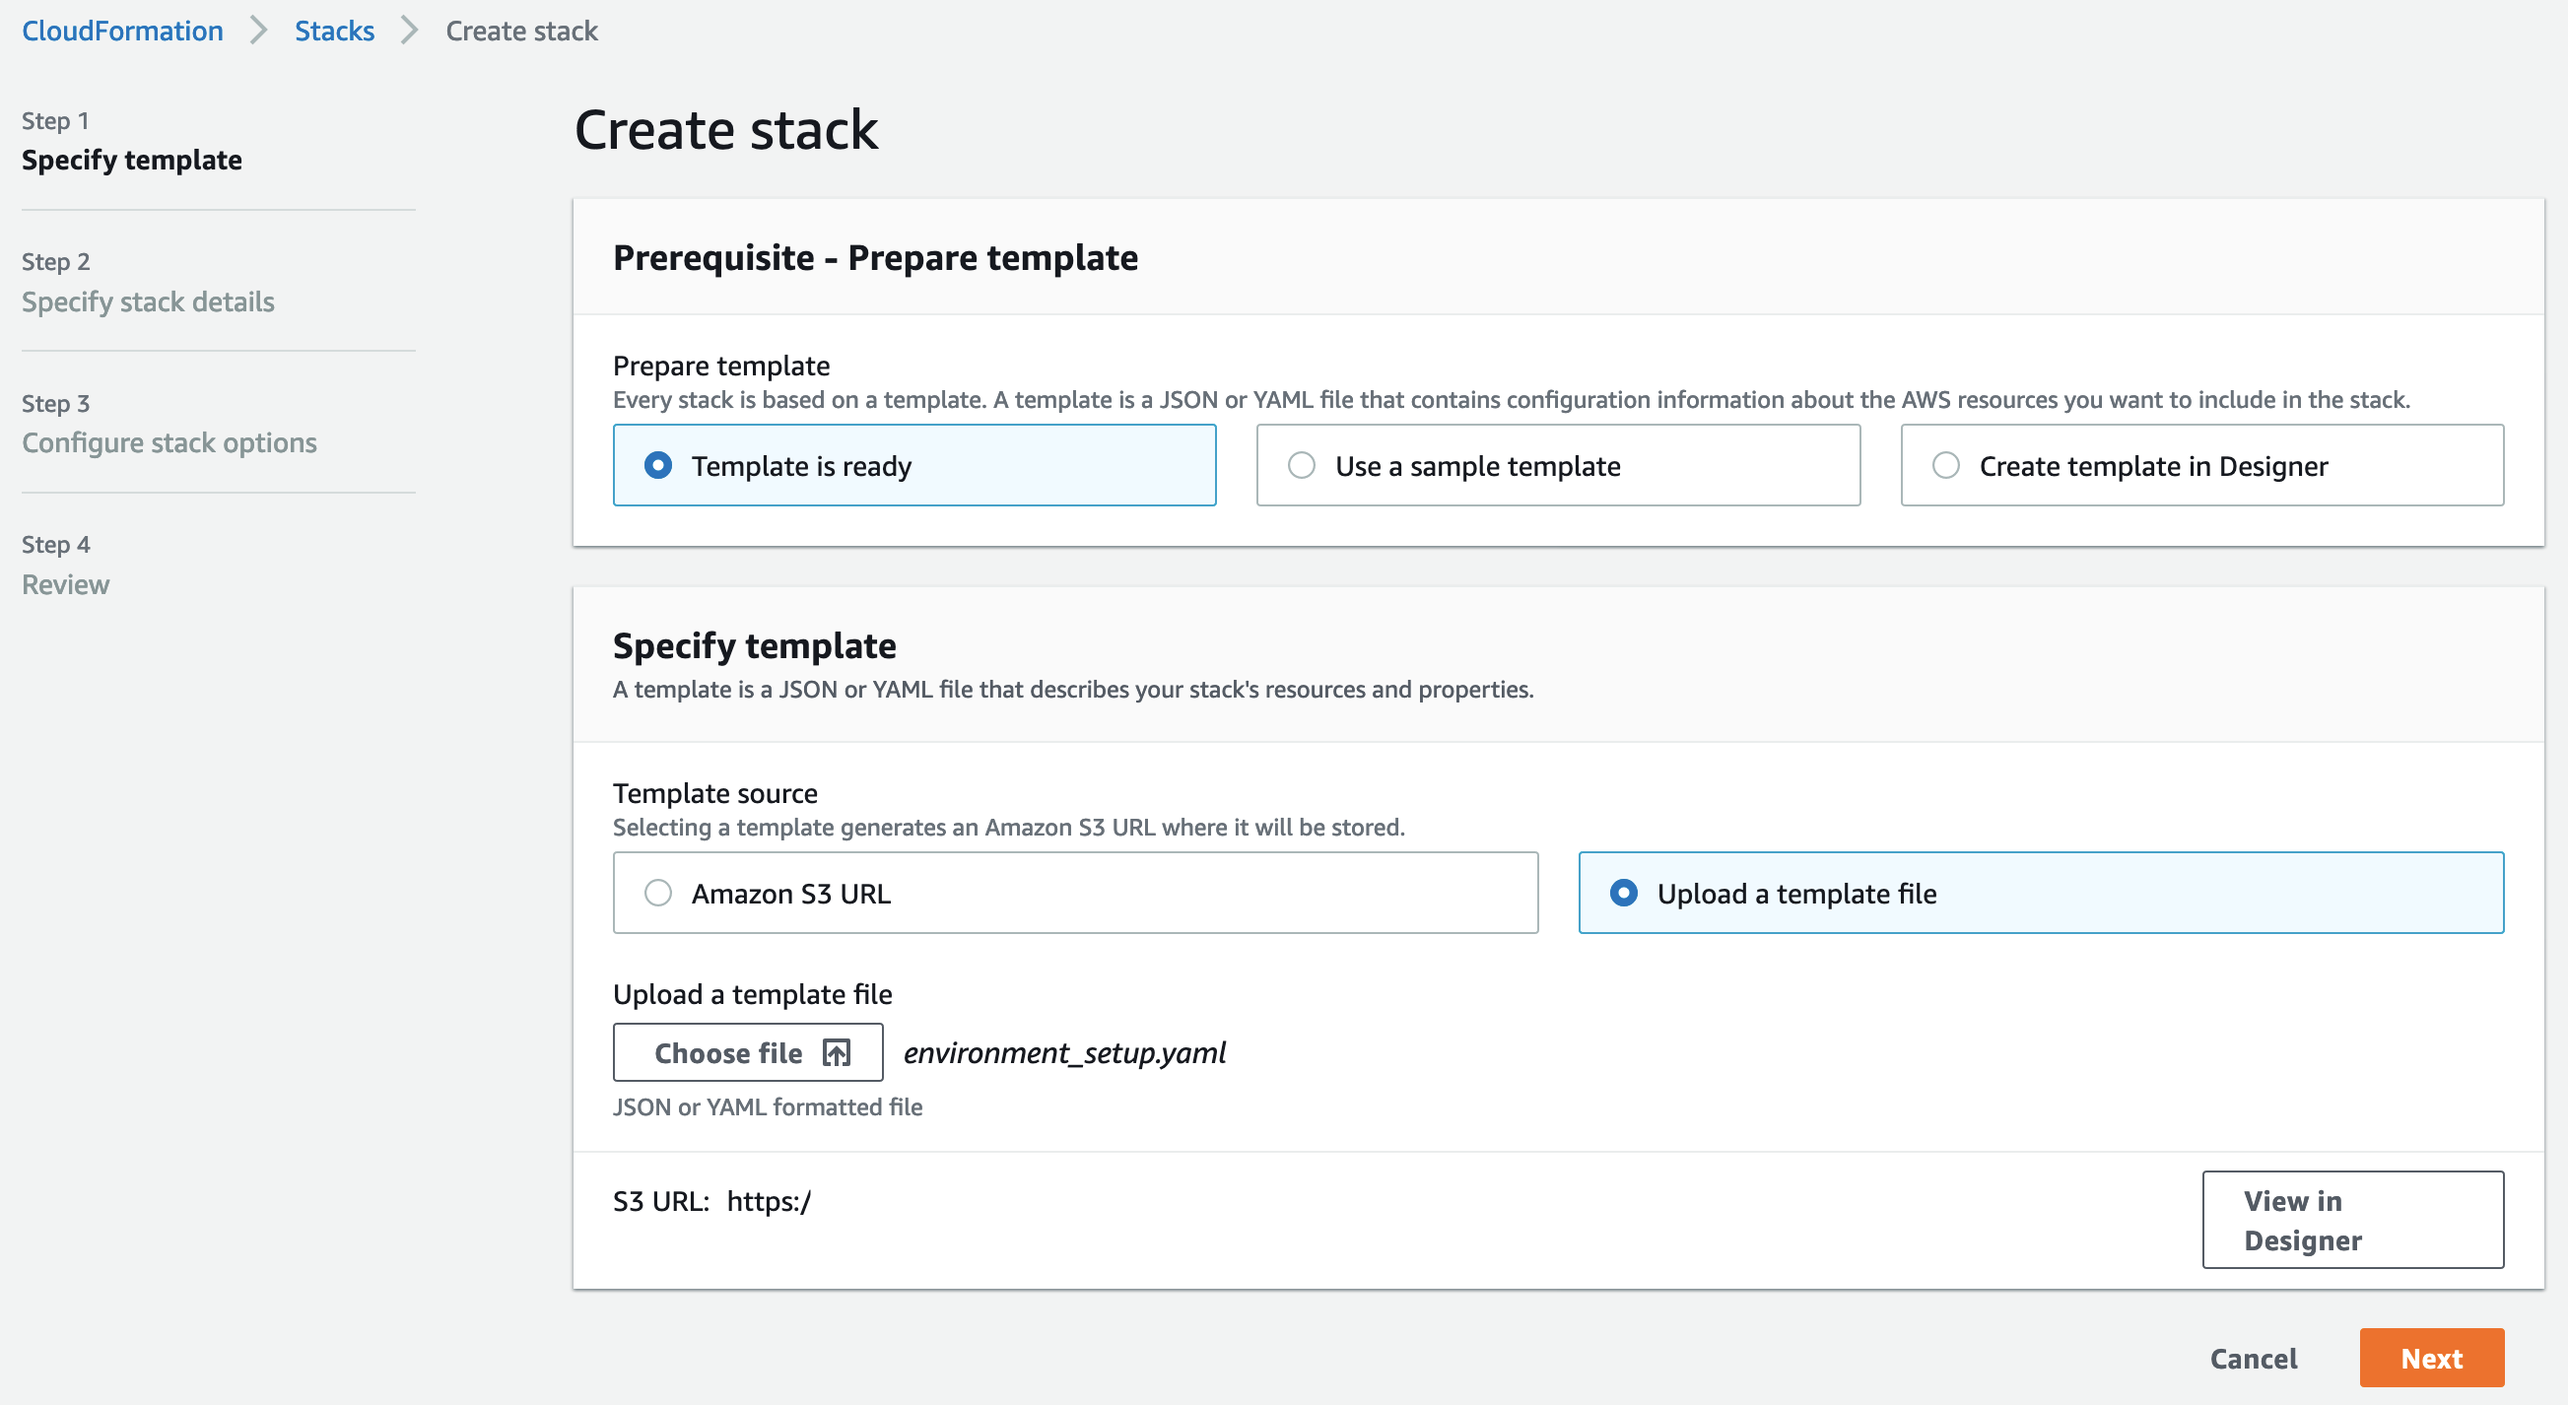
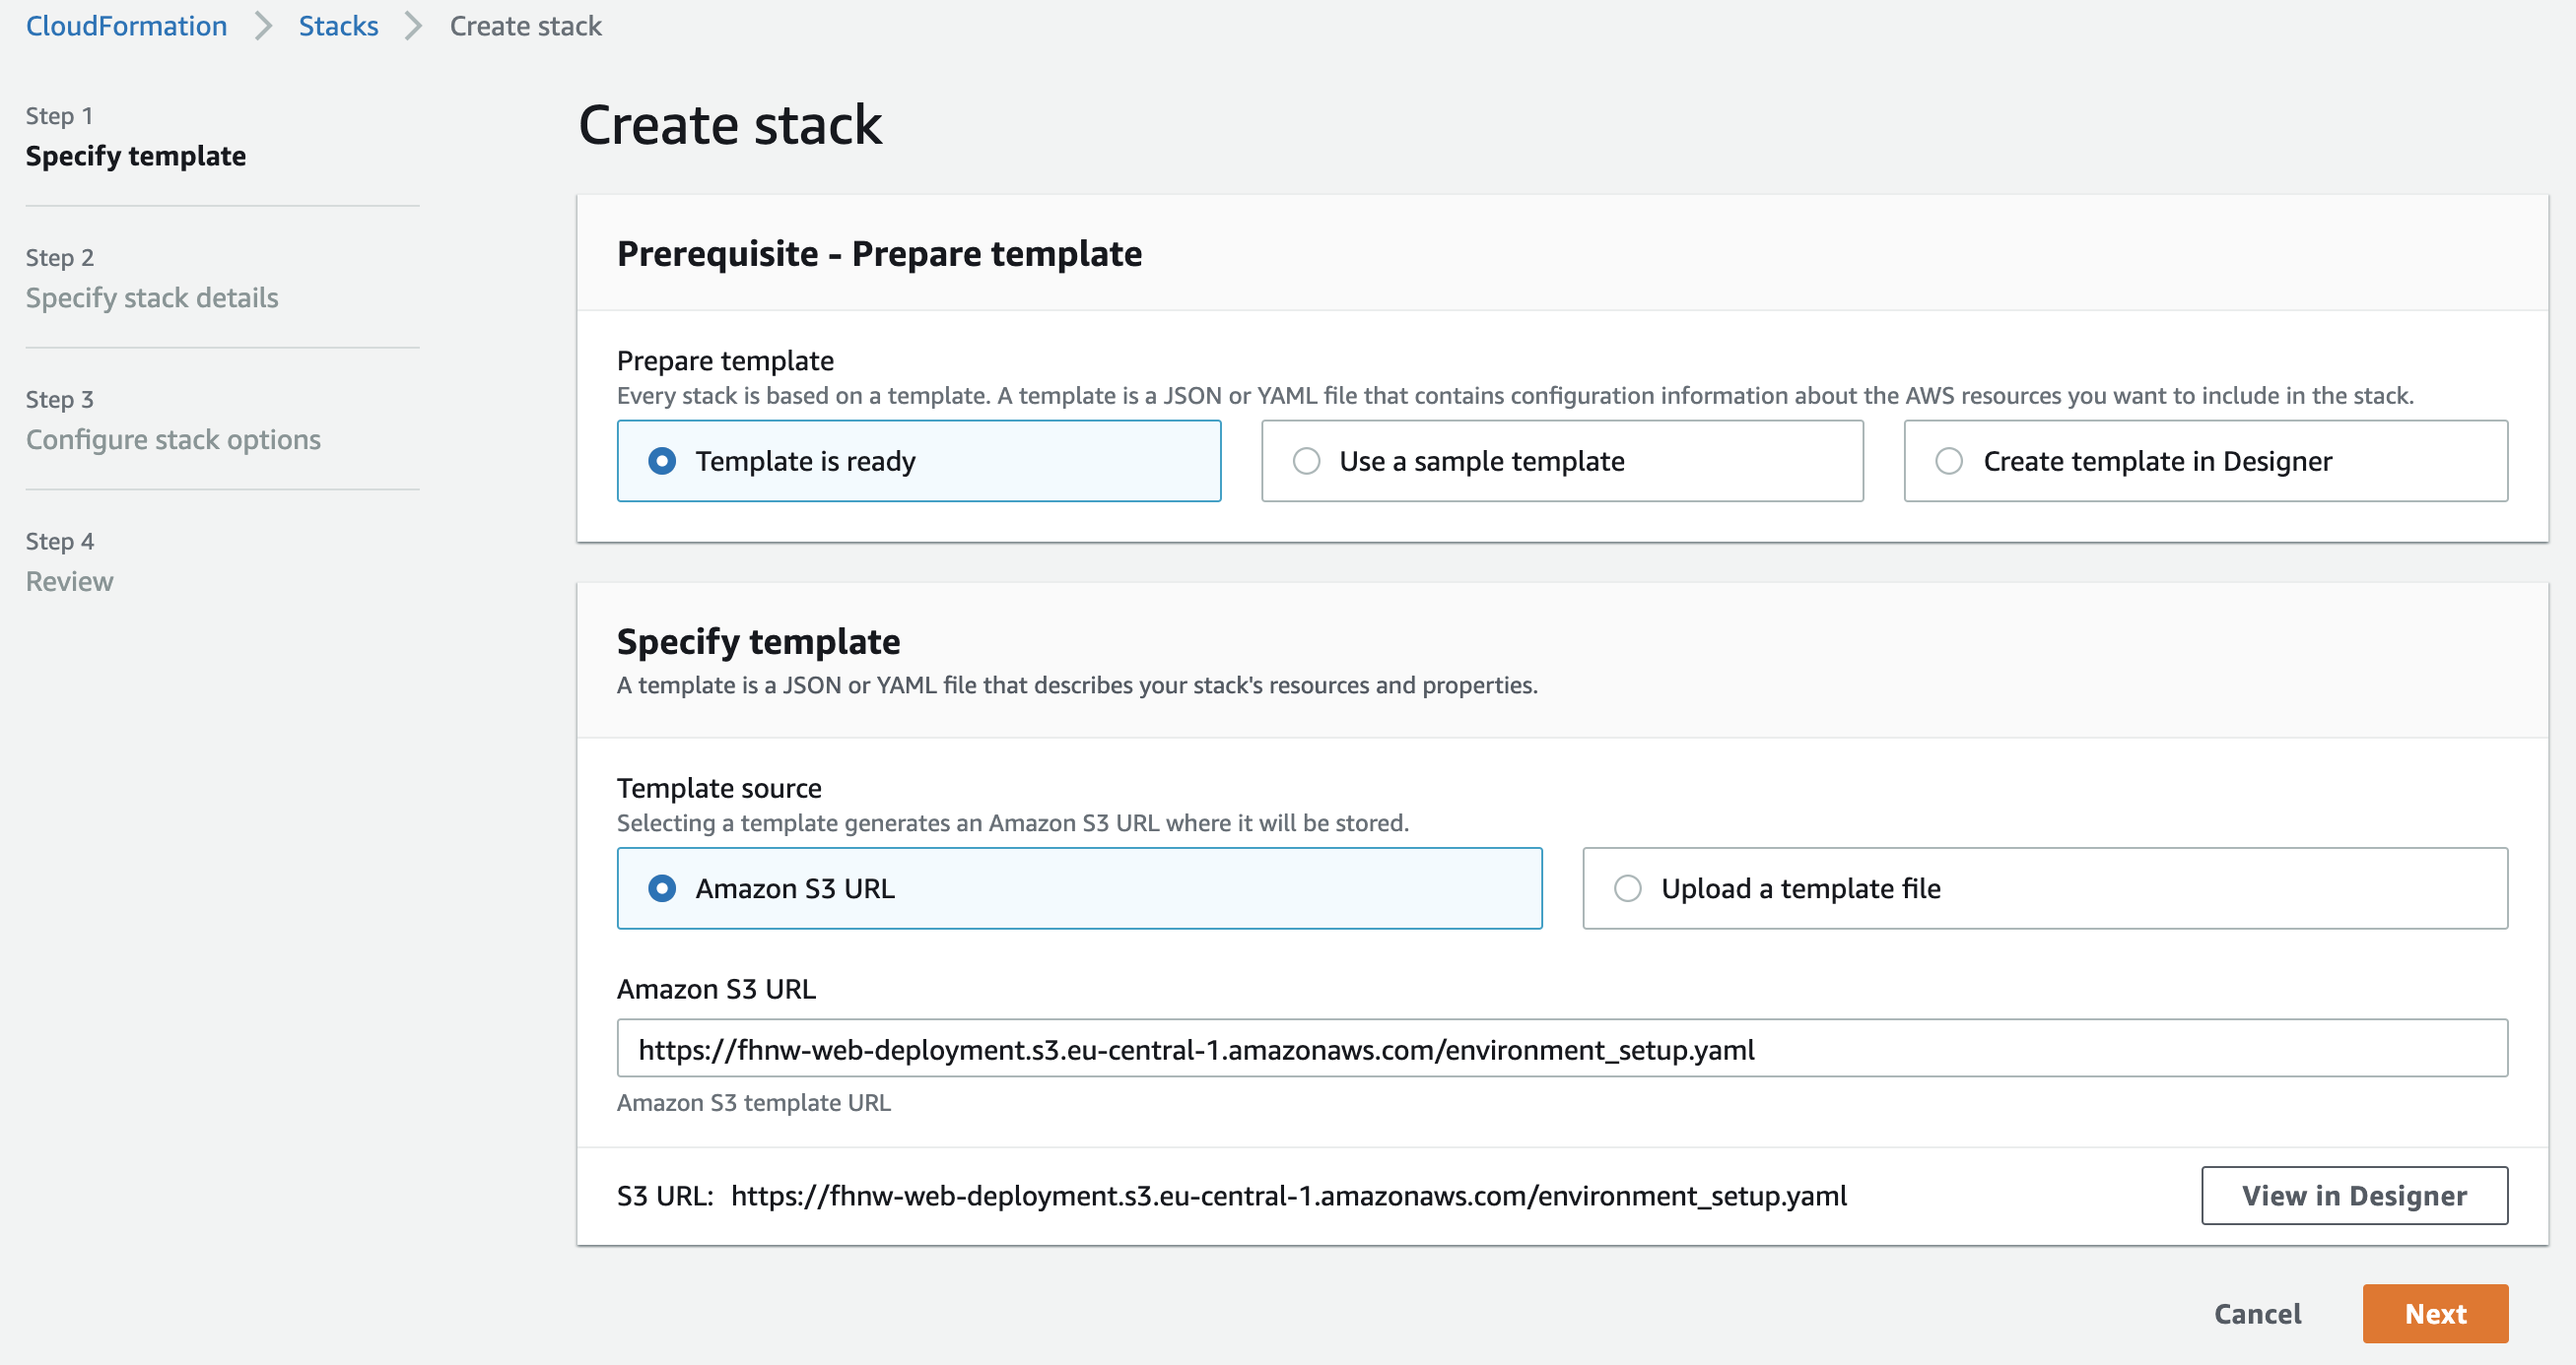
documentation udpates and corrections

diff --git a/Readme.md b/Readme.md
@@ -12,27 +12,28 @@ You will need access to an AWS Account in order to conduct this lab. Either you'
 
 ## Prepare the environment ##
 
-We will be using a couple of AWS services for this lab. Please use [the AWS CloudFormation template](https://github.com/cvolkmer/fhnw-web-deployment/blob/master/infrastructure/environment_setup.yaml) to automatically setup the infrastructure needed. The template will setup most of the infrastructure components and you can concentrate on the container part. For this lab, we will be using the Frankfurt (eu-central-1) region. Please make sure you clone this repository to a local directory.
+We will be using a couple of AWS services for this lab. The base infrastructure setup is available as a CloudFormation template. If you are interested in what is deployed - the template is stored in this repository under "Infrastructure".
 
 Services deployed by the AWS CloudFormation template:
 - Networking Stack (VPC)
 - AWS Cloud9 IDE
 - Amazon ECS Cluster (Fargate)
 - Amazon ECR container repository
-- Elastic LoadBalancer
+- Elastic Load Balancer
 
 ### Deploy the template ###
-- In the AWS Console, select "Services" and type "CloudFormation"
-- On the right side in the AWS CloudFormation window, click on "Create stack" and select "With new resources (standard)"
-- Under "Specify template" select "Upload a template file" and click "Choose file"
-- Select the file "environment_setup.yaml" in the "infrastructure" directory of this repository and click "Next"
 
-![New Stack](images/cf_new_stack.png)
+Make sure you are logged into the AWS Console and click on "Launch Stack" below to automatically deploy the stack in the Frankfurt Region (eu-central-1):
 
-- Use "roomreservation" as "Stack name"
-- Leave the default values for the other parameters and click "Next"
-- On the "Configure Stack options" page scroll down and click "Next"
-- On the next page scroll down, select the checkbox under "Capabilities" and click "Create stack"
+[![](images/cloudformation_launch_stack.png)](https://console.aws.amazon.com/cloudformation/home?region=eu-central-1#/stacks/new?stackName=roomreservation&templateURL=https:%2F%2Ffhnw-web-deployment.s3.eu-central-1.amazonaws.com%2Fenvironment_setup.yaml "Launch Stack")
+
+- After clicking the link a new AWS Console window with CloudFormation will open
+    ![New Stack](images/cf_new_stack.png)  
+- In Step 1 "Specify template" leave the settings and click "Next"
+- In Step 2 "Specify stack details" leave the existing stack name "roomreservation" and click "Next"
+- In Step 3 "Configure stack options" scroll down and click "Next"
+- In Step 4 "Review" scroll down, check "I acknowledge that AWS CloudFormation might create IAM resources." and click "Next"
+    ![Review](images/cf_review.png)  
 - The Stack will be deployed automatically. This takes about 5 minutes. You can follow the creation process under "Events" and see the "Resources" deployed
 
 ### Access AWS Cloud9 IDE ###
@@ -51,9 +52,7 @@ AWS Cloud9 is fully managed IDE and provides the AWS SDK, AWS Cli and has Docker
 ```bash
 git clone https://github.com/cvolkmer/fhnw-web-deployment.git
 ```
-- You should now see the contents from the repository under the "Environments" section.
-
-    ![Repository content](images/cloud9_repository_content.png?v=4&s=10) 
+- You should now see the contents from the repository on the left side under the "Environments" section.
 
 ## Create and deploy your container ##
 
@@ -172,7 +171,7 @@ The target architecture will look like this:
 
 ## Check Application Status ##
 
-The Elastic LoadBalancer has been created already by the AWS CloudFormation script. You can now check the Load Balancer configuration and container status.
+The Elastic Load Balancer has been created already by the AWS CloudFormation script. You can now check the Load Balancer configuration and container status.
 
 - In the AWS Console, select "Services" and type "EC2"
 - Scroll down on the left navigation and click on "Target Groups"
@@ -189,4 +188,4 @@ The Elastic LoadBalancer has been created already by the AWS CloudFormation scri
    http://roomres-ALB-XXXXXXXXXXXX-XXXXXXXX.eu-central-1.elb.amazonaws.com
    ```
 
-Congraulations! You have launched your sample application hightly available behind an Elastic LoadBalancer on Amazon ECS!
+Congratulations! You have launched your sample application hightly available behind an Elastic Load Balancer on Amazon ECS!
